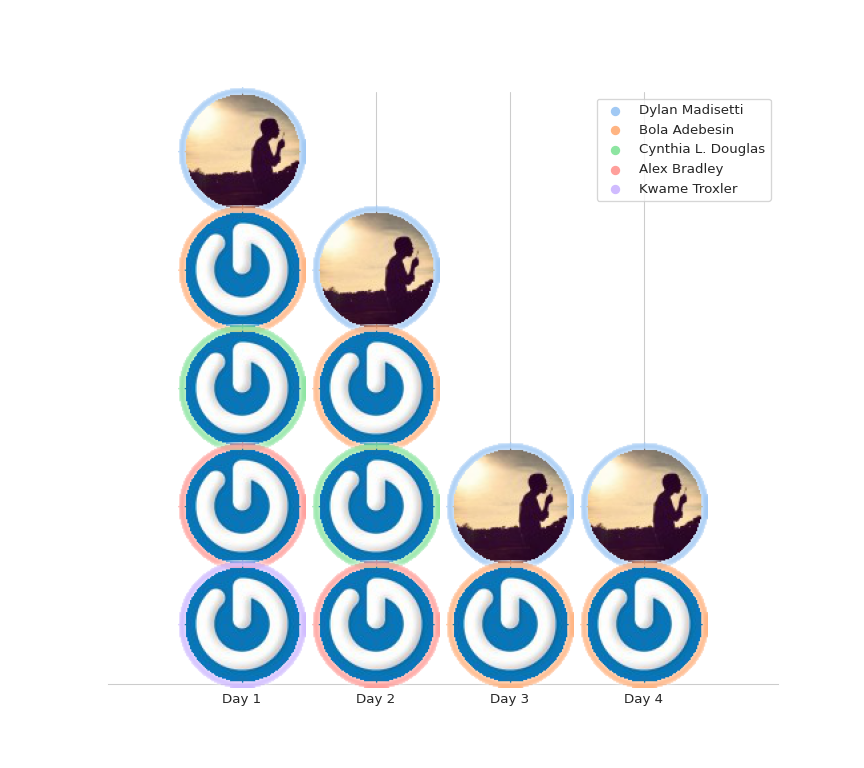
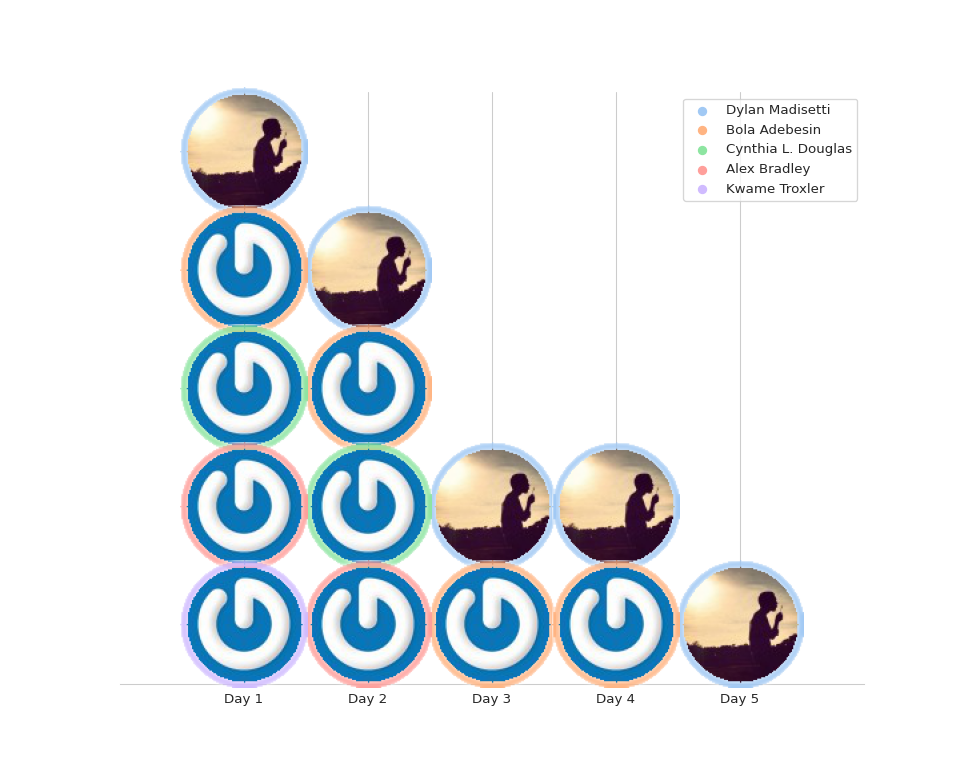
Deploying to gh-pages from @ baltimoreblacktechies/100daysOfCode-2021@21d05e3069e7b8589e155fcfd46b6b0e1cac92ac 🚀

Changed region(s): [[0.1875, 0.0938, 0.8438, 0.9375], [0.6875, 0.125, 0.875, 0.25]]

diff --git a/Bola/index.html b/Bola/index.html
@@ -65,11 +65,6 @@
     <label class="md-overlay" for="__drawer"></label>
     <div data-md-component="skip">
       
-        
-        <a href="#day-2-worked-on-developing-a-microservice-at-work-that-receieves-and-logs-client-errors-i-also-spent-some-time-reading-about-preventing-sql-injections-in-go-and-other-vulnerabilities" class="md-skip">
-          Skip to content
-        </a>
-      
     </div>
     <div data-md-component="announce">
       
@@ -140,7 +135,7 @@
 <a href="https://github.com/baltimoreblacktechies/100daysOfCode-2021/" title="Go to repository" class="md-source">
   <div class="md-source__icon md-icon">
     
-    <svg xmlns="http://www.w3.org/2000/svg" viewBox="0 0 448 512"><path d="M439.55 236.05L244 40.45a28.87 28.87 0 00-40.81 0l-40.66 40.63 51.52 51.52c27.06-9.14 52.68 16.77 43.39 43.68l49.66 49.66c34.23-11.8 61.18 31 35.47 56.69-26.49 26.49-70.21-2.87-56-37.34L240.22 199v121.85c25.3 12.54 22.26 41.85 9.08 55a34.34 34.34 0 01-48.55 0c-17.57-17.6-11.07-46.91 11.25-56v-123c-20.8-8.51-24.6-30.74-18.64-45L142.57 101 8.45 235.14a28.86 28.86 0 000 40.81l195.61 195.6a28.86 28.86 0 0040.8 0l194.69-194.69a28.86 28.86 0 000-40.81z"/></svg>
+    <svg xmlns="http://www.w3.org/2000/svg" viewBox="0 0 496 512"><path d="M165.9 397.4c0 2-2.3 3.6-5.2 3.6-3.3.3-5.6-1.3-5.6-3.6 0-2 2.3-3.6 5.2-3.6 3-.3 5.6 1.3 5.6 3.6zm-31.1-4.5c-.7 2 1.3 4.3 4.3 4.9 2.6 1 5.6 0 6.2-2s-1.3-4.3-4.3-5.2c-2.6-.7-5.5.3-6.2 2.3zm44.2-1.7c-2.9.7-4.9 2.6-4.6 4.9.3 2 2.9 3.3 5.9 2.6 2.9-.7 4.9-2.6 4.6-4.6-.3-1.9-3-3.2-5.9-2.9zM244.8 8C106.1 8 0 113.3 0 252c0 110.9 69.8 205.8 169.5 239.2 12.8 2.3 17.3-5.6 17.3-12.1 0-6.2-.3-40.4-.3-61.4 0 0-70 15-84.7-29.8 0 0-11.4-29.1-27.8-36.6 0 0-22.9-15.7 1.6-15.4 0 0 24.9 2 38.6 25.8 21.9 38.6 58.6 27.5 72.9 20.9 2.3-16 8.8-27.1 16-33.7-55.9-6.2-112.3-14.3-112.3-110.5 0-27.5 7.6-41.3 23.6-58.9-2.6-6.5-11.1-33.3 2.6-67.9 20.9-6.5 69 27 69 27 20-5.6 41.5-8.5 62.8-8.5s42.8 2.9 62.8 8.5c0 0 48.1-33.6 69-27 13.7 34.7 5.2 61.4 2.6 67.9 16 17.7 25.8 31.5 25.8 58.9 0 96.5-58.9 104.2-114.8 110.5 9.2 7.9 17 22.9 17 46.4 0 33.7-.3 75.4-.3 83.6 0 6.5 4.6 14.4 17.3 12.1C428.2 457.8 496 362.9 496 252 496 113.3 383.5 8 244.8 8zM97.2 352.9c-1.3 1-1 3.3.7 5.2 1.6 1.6 3.9 2.3 5.2 1 1.3-1 1-3.3-.7-5.2-1.6-1.6-3.9-2.3-5.2-1zm-10.8-8.1c-.7 1.3.3 2.9 2.3 3.9 1.6 1 3.6.7 4.3-.7.7-1.3-.3-2.9-2.3-3.9-2-.6-3.6-.3-4.3.7zm32.4 35.6c-1.6 1.3-1 4.3 1.3 6.2 2.3 2.3 5.2 2.6 6.5 1 1.3-1.3.7-4.3-1.3-6.2-2.2-2.3-5.2-2.6-6.5-1zm-11.4-14.7c-1.6 1-1.6 3.6 0 5.9 1.6 2.3 4.3 3.3 5.6 2.3 1.6-1.3 1.6-3.9 0-6.2-1.4-2.3-4-3.3-5.6-2z"/></svg>
   </div>
   <div class="md-source__repository">
     GitHub
@@ -184,7 +179,7 @@
 <a href="https://github.com/baltimoreblacktechies/100daysOfCode-2021/" title="Go to repository" class="md-source">
   <div class="md-source__icon md-icon">
     
-    <svg xmlns="http://www.w3.org/2000/svg" viewBox="0 0 448 512"><path d="M439.55 236.05L244 40.45a28.87 28.87 0 00-40.81 0l-40.66 40.63 51.52 51.52c27.06-9.14 52.68 16.77 43.39 43.68l49.66 49.66c34.23-11.8 61.18 31 35.47 56.69-26.49 26.49-70.21-2.87-56-37.34L240.22 199v121.85c25.3 12.54 22.26 41.85 9.08 55a34.34 34.34 0 01-48.55 0c-17.57-17.6-11.07-46.91 11.25-56v-123c-20.8-8.51-24.6-30.74-18.64-45L142.57 101 8.45 235.14a28.86 28.86 0 000 40.81l195.61 195.6a28.86 28.86 0 0040.8 0l194.69-194.69a28.86 28.86 0 000-40.81z"/></svg>
+    <svg xmlns="http://www.w3.org/2000/svg" viewBox="0 0 496 512"><path d="M165.9 397.4c0 2-2.3 3.6-5.2 3.6-3.3.3-5.6-1.3-5.6-3.6 0-2 2.3-3.6 5.2-3.6 3-.3 5.6 1.3 5.6 3.6zm-31.1-4.5c-.7 2 1.3 4.3 4.3 4.9 2.6 1 5.6 0 6.2-2s-1.3-4.3-4.3-5.2c-2.6-.7-5.5.3-6.2 2.3zm44.2-1.7c-2.9.7-4.9 2.6-4.6 4.9.3 2 2.9 3.3 5.9 2.6 2.9-.7 4.9-2.6 4.6-4.6-.3-1.9-3-3.2-5.9-2.9zM244.8 8C106.1 8 0 113.3 0 252c0 110.9 69.8 205.8 169.5 239.2 12.8 2.3 17.3-5.6 17.3-12.1 0-6.2-.3-40.4-.3-61.4 0 0-70 15-84.7-29.8 0 0-11.4-29.1-27.8-36.6 0 0-22.9-15.7 1.6-15.4 0 0 24.9 2 38.6 25.8 21.9 38.6 58.6 27.5 72.9 20.9 2.3-16 8.8-27.1 16-33.7-55.9-6.2-112.3-14.3-112.3-110.5 0-27.5 7.6-41.3 23.6-58.9-2.6-6.5-11.1-33.3 2.6-67.9 20.9-6.5 69 27 69 27 20-5.6 41.5-8.5 62.8-8.5s42.8 2.9 62.8 8.5c0 0 48.1-33.6 69-27 13.7 34.7 5.2 61.4 2.6 67.9 16 17.7 25.8 31.5 25.8 58.9 0 96.5-58.9 104.2-114.8 110.5 9.2 7.9 17 22.9 17 46.4 0 33.7-.3 75.4-.3 83.6 0 6.5 4.6 14.4 17.3 12.1C428.2 457.8 496 362.9 496 252 496 113.3 383.5 8 244.8 8zM97.2 352.9c-1.3 1-1 3.3.7 5.2 1.6 1.6 3.9 2.3 5.2 1 1.3-1 1-3.3-.7-5.2-1.6-1.6-3.9-2.3-5.2-1zm-10.8-8.1c-.7 1.3.3 2.9 2.3 3.9 1.6 1 3.6.7 4.3-.7.7-1.3-.3-2.9-2.3-3.9-2-.6-3.6-.3-4.3.7zm32.4 35.6c-1.6 1.3-1 4.3 1.3 6.2 2.3 2.3 5.2 2.6 6.5 1 1.3-1.3.7-4.3-1.3-6.2-2.2-2.3-5.2-2.6-6.5-1zm-11.4-14.7c-1.6 1-1.6 3.6 0 5.9 1.6 2.3 4.3 3.3 5.6 2.3 1.6-1.3 1.6-3.9 0-6.2-1.4-2.3-4-3.3-5.6-2z"/></svg>
   </div>
   <div class="md-source__repository">
     GitHub
@@ -287,36 +282,9 @@
       <input class="md-nav__toggle md-toggle" data-md-toggle="toc" type="checkbox" id="__toc">
       
       
-        <label class="md-nav__link md-nav__link--active" for="__toc">
-          docs/Bola.md
-          <span class="md-nav__icon md-icon"></span>
-        </label>
-      
       <a href="./" class="md-nav__link md-nav__link--active">
         docs/Bola.md
       </a>
-      
-        
-<nav class="md-nav md-nav--secondary" aria-label="Table of contents">
-  
-  
-  
-    <label class="md-nav__title" for="__toc">
-      <span class="md-nav__icon md-icon"></span>
-      Table of contents
-    </label>
-    <ul class="md-nav__list" data-md-scrollfix>
-      
-        <li class="md-nav__item">
-  <a href="#day-2-worked-on-developing-a-microservice-at-work-that-receieves-and-logs-client-errors-i-also-spent-some-time-reading-about-preventing-sql-injections-in-go-and-other-vulnerabilities" class="md-nav__link">
-    Day 2: Worked on developing a microservice at work that receieves and logs client errors. I also spent some time reading about preventing SQL injections in Go and other vulnerabilities.
-  </a>
-  
-</li>
-      
-    </ul>
-  
-</nav>
       
     </li>
   
@@ -371,35 +339,6 @@
               </div>
             
             
-              
-              <div class="md-sidebar md-sidebar--secondary" data-md-component="toc" >
-                <div class="md-sidebar__scrollwrap">
-                  <div class="md-sidebar__inner">
-                    
-<nav class="md-nav md-nav--secondary" aria-label="Table of contents">
-  
-  
-  
-    <label class="md-nav__title" for="__toc">
-      <span class="md-nav__icon md-icon"></span>
-      Table of contents
-    </label>
-    <ul class="md-nav__list" data-md-scrollfix>
-      
-        <li class="md-nav__item">
-  <a href="#day-2-worked-on-developing-a-microservice-at-work-that-receieves-and-logs-client-errors-i-also-spent-some-time-reading-about-preventing-sql-injections-in-go-and-other-vulnerabilities" class="md-nav__link">
-    Day 2: Worked on developing a microservice at work that receieves and logs client errors. I also spent some time reading about preventing SQL injections in Go and other vulnerabilities.
-  </a>
-  
-</li>
-      
-    </ul>
-  
-</nav>
-                  </div>
-                </div>
-              </div>
-            
           
           <div class="md-content">
             <article class="md-content__inner md-typeset">
@@ -415,7 +354,8 @@
                 <p>Day 1: Recently, I've been making an effort to improve my knowledge of data structures and algorithms. I'm working through a course 
 I purchased on Udemy. Today, I focused on solving problems using the "sliding window" technique. </p>
 <hr />
-<h2 id="day-2-worked-on-developing-a-microservice-at-work-that-receieves-and-logs-client-errors-i-also-spent-some-time-reading-about-preventing-sql-injections-in-go-and-other-vulnerabilities">Day 2: Worked on developing a microservice at work that receieves and logs client errors. I also spent some time reading about preventing SQL injections in Go and other vulnerabilities.</h2>
+<p>Day 2: Worked on developing a microservice at work that receieves and logs client errors. I also spent some time reading about preventing SQL injections in Go and other vulnerabilities. </p>
+<hr />
 <p>Day 3: Spent today learning and practicing recursion. One problem led me down an interesting rabbit hole about the different ways to remove the 
 last element of an array in javascript. There are three different ways to do it, and each method returns something different. Definitely a good 
 review of some of javascript's built in methods.</p>

diff --git a/Alex/index.html b/Alex/index.html
@@ -65,11 +65,6 @@
     <label class="md-overlay" for="__drawer"></label>
     <div data-md-component="skip">
       
-        
-        <a href="#today-i-read-a-chapter-of-phoenix-in-action" class="md-skip">
-          Skip to content
-        </a>
-      
     </div>
     <div data-md-component="announce">
       
@@ -140,7 +135,7 @@
 <a href="https://github.com/baltimoreblacktechies/100daysOfCode-2021/" title="Go to repository" class="md-source">
   <div class="md-source__icon md-icon">
     
-    <svg xmlns="http://www.w3.org/2000/svg" viewBox="0 0 448 512"><path d="M439.55 236.05L244 40.45a28.87 28.87 0 00-40.81 0l-40.66 40.63 51.52 51.52c27.06-9.14 52.68 16.77 43.39 43.68l49.66 49.66c34.23-11.8 61.18 31 35.47 56.69-26.49 26.49-70.21-2.87-56-37.34L240.22 199v121.85c25.3 12.54 22.26 41.85 9.08 55a34.34 34.34 0 01-48.55 0c-17.57-17.6-11.07-46.91 11.25-56v-123c-20.8-8.51-24.6-30.74-18.64-45L142.57 101 8.45 235.14a28.86 28.86 0 000 40.81l195.61 195.6a28.86 28.86 0 0040.8 0l194.69-194.69a28.86 28.86 0 000-40.81z"/></svg>
+    <svg xmlns="http://www.w3.org/2000/svg" viewBox="0 0 496 512"><path d="M165.9 397.4c0 2-2.3 3.6-5.2 3.6-3.3.3-5.6-1.3-5.6-3.6 0-2 2.3-3.6 5.2-3.6 3-.3 5.6 1.3 5.6 3.6zm-31.1-4.5c-.7 2 1.3 4.3 4.3 4.9 2.6 1 5.6 0 6.2-2s-1.3-4.3-4.3-5.2c-2.6-.7-5.5.3-6.2 2.3zm44.2-1.7c-2.9.7-4.9 2.6-4.6 4.9.3 2 2.9 3.3 5.9 2.6 2.9-.7 4.9-2.6 4.6-4.6-.3-1.9-3-3.2-5.9-2.9zM244.8 8C106.1 8 0 113.3 0 252c0 110.9 69.8 205.8 169.5 239.2 12.8 2.3 17.3-5.6 17.3-12.1 0-6.2-.3-40.4-.3-61.4 0 0-70 15-84.7-29.8 0 0-11.4-29.1-27.8-36.6 0 0-22.9-15.7 1.6-15.4 0 0 24.9 2 38.6 25.8 21.9 38.6 58.6 27.5 72.9 20.9 2.3-16 8.8-27.1 16-33.7-55.9-6.2-112.3-14.3-112.3-110.5 0-27.5 7.6-41.3 23.6-58.9-2.6-6.5-11.1-33.3 2.6-67.9 20.9-6.5 69 27 69 27 20-5.6 41.5-8.5 62.8-8.5s42.8 2.9 62.8 8.5c0 0 48.1-33.6 69-27 13.7 34.7 5.2 61.4 2.6 67.9 16 17.7 25.8 31.5 25.8 58.9 0 96.5-58.9 104.2-114.8 110.5 9.2 7.9 17 22.9 17 46.4 0 33.7-.3 75.4-.3 83.6 0 6.5 4.6 14.4 17.3 12.1C428.2 457.8 496 362.9 496 252 496 113.3 383.5 8 244.8 8zM97.2 352.9c-1.3 1-1 3.3.7 5.2 1.6 1.6 3.9 2.3 5.2 1 1.3-1 1-3.3-.7-5.2-1.6-1.6-3.9-2.3-5.2-1zm-10.8-8.1c-.7 1.3.3 2.9 2.3 3.9 1.6 1 3.6.7 4.3-.7.7-1.3-.3-2.9-2.3-3.9-2-.6-3.6-.3-4.3.7zm32.4 35.6c-1.6 1.3-1 4.3 1.3 6.2 2.3 2.3 5.2 2.6 6.5 1 1.3-1.3.7-4.3-1.3-6.2-2.2-2.3-5.2-2.6-6.5-1zm-11.4-14.7c-1.6 1-1.6 3.6 0 5.9 1.6 2.3 4.3 3.3 5.6 2.3 1.6-1.3 1.6-3.9 0-6.2-1.4-2.3-4-3.3-5.6-2z"/></svg>
   </div>
   <div class="md-source__repository">
     GitHub
@@ -184,7 +179,7 @@
 <a href="https://github.com/baltimoreblacktechies/100daysOfCode-2021/" title="Go to repository" class="md-source">
   <div class="md-source__icon md-icon">
     
-    <svg xmlns="http://www.w3.org/2000/svg" viewBox="0 0 448 512"><path d="M439.55 236.05L244 40.45a28.87 28.87 0 00-40.81 0l-40.66 40.63 51.52 51.52c27.06-9.14 52.68 16.77 43.39 43.68l49.66 49.66c34.23-11.8 61.18 31 35.47 56.69-26.49 26.49-70.21-2.87-56-37.34L240.22 199v121.85c25.3 12.54 22.26 41.85 9.08 55a34.34 34.34 0 01-48.55 0c-17.57-17.6-11.07-46.91 11.25-56v-123c-20.8-8.51-24.6-30.74-18.64-45L142.57 101 8.45 235.14a28.86 28.86 0 000 40.81l195.61 195.6a28.86 28.86 0 0040.8 0l194.69-194.69a28.86 28.86 0 000-40.81z"/></svg>
+    <svg xmlns="http://www.w3.org/2000/svg" viewBox="0 0 496 512"><path d="M165.9 397.4c0 2-2.3 3.6-5.2 3.6-3.3.3-5.6-1.3-5.6-3.6 0-2 2.3-3.6 5.2-3.6 3-.3 5.6 1.3 5.6 3.6zm-31.1-4.5c-.7 2 1.3 4.3 4.3 4.9 2.6 1 5.6 0 6.2-2s-1.3-4.3-4.3-5.2c-2.6-.7-5.5.3-6.2 2.3zm44.2-1.7c-2.9.7-4.9 2.6-4.6 4.9.3 2 2.9 3.3 5.9 2.6 2.9-.7 4.9-2.6 4.6-4.6-.3-1.9-3-3.2-5.9-2.9zM244.8 8C106.1 8 0 113.3 0 252c0 110.9 69.8 205.8 169.5 239.2 12.8 2.3 17.3-5.6 17.3-12.1 0-6.2-.3-40.4-.3-61.4 0 0-70 15-84.7-29.8 0 0-11.4-29.1-27.8-36.6 0 0-22.9-15.7 1.6-15.4 0 0 24.9 2 38.6 25.8 21.9 38.6 58.6 27.5 72.9 20.9 2.3-16 8.8-27.1 16-33.7-55.9-6.2-112.3-14.3-112.3-110.5 0-27.5 7.6-41.3 23.6-58.9-2.6-6.5-11.1-33.3 2.6-67.9 20.9-6.5 69 27 69 27 20-5.6 41.5-8.5 62.8-8.5s42.8 2.9 62.8 8.5c0 0 48.1-33.6 69-27 13.7 34.7 5.2 61.4 2.6 67.9 16 17.7 25.8 31.5 25.8 58.9 0 96.5-58.9 104.2-114.8 110.5 9.2 7.9 17 22.9 17 46.4 0 33.7-.3 75.4-.3 83.6 0 6.5 4.6 14.4 17.3 12.1C428.2 457.8 496 362.9 496 252 496 113.3 383.5 8 244.8 8zM97.2 352.9c-1.3 1-1 3.3.7 5.2 1.6 1.6 3.9 2.3 5.2 1 1.3-1 1-3.3-.7-5.2-1.6-1.6-3.9-2.3-5.2-1zm-10.8-8.1c-.7 1.3.3 2.9 2.3 3.9 1.6 1 3.6.7 4.3-.7.7-1.3-.3-2.9-2.3-3.9-2-.6-3.6-.3-4.3.7zm32.4 35.6c-1.6 1.3-1 4.3 1.3 6.2 2.3 2.3 5.2 2.6 6.5 1 1.3-1.3.7-4.3-1.3-6.2-2.2-2.3-5.2-2.6-6.5-1zm-11.4-14.7c-1.6 1-1.6 3.6 0 5.9 1.6 2.3 4.3 3.3 5.6 2.3 1.6-1.3 1.6-3.9 0-6.2-1.4-2.3-4-3.3-5.6-2z"/></svg>
   </div>
   <div class="md-source__repository">
     GitHub
@@ -275,36 +270,9 @@
       <input class="md-nav__toggle md-toggle" data-md-toggle="toc" type="checkbox" id="__toc">
       
       
-        <label class="md-nav__link md-nav__link--active" for="__toc">
-          docs/Alex.md
-          <span class="md-nav__icon md-icon"></span>
-        </label>
-      
       <a href="./" class="md-nav__link md-nav__link--active">
         docs/Alex.md
       </a>
-      
-        
-<nav class="md-nav md-nav--secondary" aria-label="Table of contents">
-  
-  
-  
-    <label class="md-nav__title" for="__toc">
-      <span class="md-nav__icon md-icon"></span>
-      Table of contents
-    </label>
-    <ul class="md-nav__list" data-md-scrollfix>
-      
-        <li class="md-nav__item">
-  <a href="#today-i-read-a-chapter-of-phoenix-in-action" class="md-nav__link">
-    Today I read a chapter of Phoenix in Action
-  </a>
-  
-</li>
-      
-    </ul>
-  
-</nav>
       
     </li>
   
@@ -371,35 +339,6 @@
               </div>
             
             
-              
-              <div class="md-sidebar md-sidebar--secondary" data-md-component="toc" >
-                <div class="md-sidebar__scrollwrap">
-                  <div class="md-sidebar__inner">
-                    
-<nav class="md-nav md-nav--secondary" aria-label="Table of contents">
-  
-  
-  
-    <label class="md-nav__title" for="__toc">
-      <span class="md-nav__icon md-icon"></span>
-      Table of contents
-    </label>
-    <ul class="md-nav__list" data-md-scrollfix>
-      
-        <li class="md-nav__item">
-  <a href="#today-i-read-a-chapter-of-phoenix-in-action" class="md-nav__link">
-    Today I read a chapter of Phoenix in Action
-  </a>
-  
-</li>
-      
-    </ul>
-  
-</nav>
-                  </div>
-                </div>
-              </div>
-            
           
           <div class="md-content">
             <article class="md-content__inner md-typeset">
@@ -412,7 +351,8 @@
                 
                   <h1>docs/Alex.md</h1>
                 
-                <h2 id="today-i-read-a-chapter-of-phoenix-in-action">Today I read a chapter of Phoenix in Action</h2>
+                <p>Today I read a chapter of Phoenix in Action</p>
+<hr />
 <p>Spent this day parsing csv files in go to output it into formatted JSON.</p>
                 
               

diff --git a/Dylan/index.html b/Dylan/index.html
@@ -140,7 +140,7 @@
 <a href="https://github.com/baltimoreblacktechies/100daysOfCode-2021/" title="Go to repository" class="md-source">
   <div class="md-source__icon md-icon">
     
-    <svg xmlns="http://www.w3.org/2000/svg" viewBox="0 0 448 512"><path d="M439.55 236.05L244 40.45a28.87 28.87 0 00-40.81 0l-40.66 40.63 51.52 51.52c27.06-9.14 52.68 16.77 43.39 43.68l49.66 49.66c34.23-11.8 61.18 31 35.47 56.69-26.49 26.49-70.21-2.87-56-37.34L240.22 199v121.85c25.3 12.54 22.26 41.85 9.08 55a34.34 34.34 0 01-48.55 0c-17.57-17.6-11.07-46.91 11.25-56v-123c-20.8-8.51-24.6-30.74-18.64-45L142.57 101 8.45 235.14a28.86 28.86 0 000 40.81l195.61 195.6a28.86 28.86 0 0040.8 0l194.69-194.69a28.86 28.86 0 000-40.81z"/></svg>
+    <svg xmlns="http://www.w3.org/2000/svg" viewBox="0 0 496 512"><path d="M165.9 397.4c0 2-2.3 3.6-5.2 3.6-3.3.3-5.6-1.3-5.6-3.6 0-2 2.3-3.6 5.2-3.6 3-.3 5.6 1.3 5.6 3.6zm-31.1-4.5c-.7 2 1.3 4.3 4.3 4.9 2.6 1 5.6 0 6.2-2s-1.3-4.3-4.3-5.2c-2.6-.7-5.5.3-6.2 2.3zm44.2-1.7c-2.9.7-4.9 2.6-4.6 4.9.3 2 2.9 3.3 5.9 2.6 2.9-.7 4.9-2.6 4.6-4.6-.3-1.9-3-3.2-5.9-2.9zM244.8 8C106.1 8 0 113.3 0 252c0 110.9 69.8 205.8 169.5 239.2 12.8 2.3 17.3-5.6 17.3-12.1 0-6.2-.3-40.4-.3-61.4 0 0-70 15-84.7-29.8 0 0-11.4-29.1-27.8-36.6 0 0-22.9-15.7 1.6-15.4 0 0 24.9 2 38.6 25.8 21.9 38.6 58.6 27.5 72.9 20.9 2.3-16 8.8-27.1 16-33.7-55.9-6.2-112.3-14.3-112.3-110.5 0-27.5 7.6-41.3 23.6-58.9-2.6-6.5-11.1-33.3 2.6-67.9 20.9-6.5 69 27 69 27 20-5.6 41.5-8.5 62.8-8.5s42.8 2.9 62.8 8.5c0 0 48.1-33.6 69-27 13.7 34.7 5.2 61.4 2.6 67.9 16 17.7 25.8 31.5 25.8 58.9 0 96.5-58.9 104.2-114.8 110.5 9.2 7.9 17 22.9 17 46.4 0 33.7-.3 75.4-.3 83.6 0 6.5 4.6 14.4 17.3 12.1C428.2 457.8 496 362.9 496 252 496 113.3 383.5 8 244.8 8zM97.2 352.9c-1.3 1-1 3.3.7 5.2 1.6 1.6 3.9 2.3 5.2 1 1.3-1 1-3.3-.7-5.2-1.6-1.6-3.9-2.3-5.2-1zm-10.8-8.1c-.7 1.3.3 2.9 2.3 3.9 1.6 1 3.6.7 4.3-.7.7-1.3-.3-2.9-2.3-3.9-2-.6-3.6-.3-4.3.7zm32.4 35.6c-1.6 1.3-1 4.3 1.3 6.2 2.3 2.3 5.2 2.6 6.5 1 1.3-1.3.7-4.3-1.3-6.2-2.2-2.3-5.2-2.6-6.5-1zm-11.4-14.7c-1.6 1-1.6 3.6 0 5.9 1.6 2.3 4.3 3.3 5.6 2.3 1.6-1.3 1.6-3.9 0-6.2-1.4-2.3-4-3.3-5.6-2z"/></svg>
   </div>
   <div class="md-source__repository">
     GitHub
@@ -184,7 +184,7 @@
 <a href="https://github.com/baltimoreblacktechies/100daysOfCode-2021/" title="Go to repository" class="md-source">
   <div class="md-source__icon md-icon">
     
-    <svg xmlns="http://www.w3.org/2000/svg" viewBox="0 0 448 512"><path d="M439.55 236.05L244 40.45a28.87 28.87 0 00-40.81 0l-40.66 40.63 51.52 51.52c27.06-9.14 52.68 16.77 43.39 43.68l49.66 49.66c34.23-11.8 61.18 31 35.47 56.69-26.49 26.49-70.21-2.87-56-37.34L240.22 199v121.85c25.3 12.54 22.26 41.85 9.08 55a34.34 34.34 0 01-48.55 0c-17.57-17.6-11.07-46.91 11.25-56v-123c-20.8-8.51-24.6-30.74-18.64-45L142.57 101 8.45 235.14a28.86 28.86 0 000 40.81l195.61 195.6a28.86 28.86 0 0040.8 0l194.69-194.69a28.86 28.86 0 000-40.81z"/></svg>
+    <svg xmlns="http://www.w3.org/2000/svg" viewBox="0 0 496 512"><path d="M165.9 397.4c0 2-2.3 3.6-5.2 3.6-3.3.3-5.6-1.3-5.6-3.6 0-2 2.3-3.6 5.2-3.6 3-.3 5.6 1.3 5.6 3.6zm-31.1-4.5c-.7 2 1.3 4.3 4.3 4.9 2.6 1 5.6 0 6.2-2s-1.3-4.3-4.3-5.2c-2.6-.7-5.5.3-6.2 2.3zm44.2-1.7c-2.9.7-4.9 2.6-4.6 4.9.3 2 2.9 3.3 5.9 2.6 2.9-.7 4.9-2.6 4.6-4.6-.3-1.9-3-3.2-5.9-2.9zM244.8 8C106.1 8 0 113.3 0 252c0 110.9 69.8 205.8 169.5 239.2 12.8 2.3 17.3-5.6 17.3-12.1 0-6.2-.3-40.4-.3-61.4 0 0-70 15-84.7-29.8 0 0-11.4-29.1-27.8-36.6 0 0-22.9-15.7 1.6-15.4 0 0 24.9 2 38.6 25.8 21.9 38.6 58.6 27.5 72.9 20.9 2.3-16 8.8-27.1 16-33.7-55.9-6.2-112.3-14.3-112.3-110.5 0-27.5 7.6-41.3 23.6-58.9-2.6-6.5-11.1-33.3 2.6-67.9 20.9-6.5 69 27 69 27 20-5.6 41.5-8.5 62.8-8.5s42.8 2.9 62.8 8.5c0 0 48.1-33.6 69-27 13.7 34.7 5.2 61.4 2.6 67.9 16 17.7 25.8 31.5 25.8 58.9 0 96.5-58.9 104.2-114.8 110.5 9.2 7.9 17 22.9 17 46.4 0 33.7-.3 75.4-.3 83.6 0 6.5 4.6 14.4 17.3 12.1C428.2 457.8 496 362.9 496 252 496 113.3 383.5 8 244.8 8zM97.2 352.9c-1.3 1-1 3.3.7 5.2 1.6 1.6 3.9 2.3 5.2 1 1.3-1 1-3.3-.7-5.2-1.6-1.6-3.9-2.3-5.2-1zm-10.8-8.1c-.7 1.3.3 2.9 2.3 3.9 1.6 1 3.6.7 4.3-.7.7-1.3-.3-2.9-2.3-3.9-2-.6-3.6-.3-4.3.7zm32.4 35.6c-1.6 1.3-1 4.3 1.3 6.2 2.3 2.3 5.2 2.6 6.5 1 1.3-1.3.7-4.3-1.3-6.2-2.2-2.3-5.2-2.6-6.5-1zm-11.4-14.7c-1.6 1-1.6 3.6 0 5.9 1.6 2.3 4.3 3.3 5.6 2.3 1.6-1.3 1.6-3.9 0-6.2-1.4-2.3-4-3.3-5.6-2z"/></svg>
   </div>
   <div class="md-source__repository">
     GitHub
@@ -370,6 +370,13 @@
   
 </li>
       
+        <li class="md-nav__item">
+  <a href="#day-5" class="md-nav__link">
+    Day 5
+  </a>
+  
+</li>
+      
     </ul>
   
 </nav>
@@ -455,6 +462,13 @@
   
 </li>
       
+        <li class="md-nav__item">
+  <a href="#day-5" class="md-nav__link">
+    Day 5
+  </a>
+  
+</li>
+      
     </ul>
   
 </nav>
@@ -487,6 +501,14 @@ are a little broken rn (can only download zips) so was disappointed.</p>
 <h2 id="day-4">Day 4</h2>
 <p>Lol, over did the readme page, made a github pages site and added badges for
 100 days of code. Also fixed some of the caching issues.</p>
+<h2 id="day-5">Day 5</h2>
+<p>Does work count? Worked on a visualization with
+<a href="https://github.com/ManimCommunity/manim/">Manim</a> for an upcoming presentation.
+I fixed a bug with my CI in my research code, and I read up on using CSE for
+FMM + means of numerically calculating Cauchy integrals incase I want to go
+down the numerical FMM route (with Laurent series) for the equations I've
+been wrestling with. Also fixed a bug or two with the BBT 100 Days of code
+CI.</p>
                 
               
               

diff --git a/404.html b/404.html
@@ -135,7 +135,7 @@
 <a href="https://github.com/baltimoreblacktechies/100daysOfCode-2021/" title="Go to repository" class="md-source">
   <div class="md-source__icon md-icon">
     
-    <svg xmlns="http://www.w3.org/2000/svg" viewBox="0 0 448 512"><path d="M439.55 236.05L244 40.45a28.87 28.87 0 00-40.81 0l-40.66 40.63 51.52 51.52c27.06-9.14 52.68 16.77 43.39 43.68l49.66 49.66c34.23-11.8 61.18 31 35.47 56.69-26.49 26.49-70.21-2.87-56-37.34L240.22 199v121.85c25.3 12.54 22.26 41.85 9.08 55a34.34 34.34 0 01-48.55 0c-17.57-17.6-11.07-46.91 11.25-56v-123c-20.8-8.51-24.6-30.74-18.64-45L142.57 101 8.45 235.14a28.86 28.86 0 000 40.81l195.61 195.6a28.86 28.86 0 0040.8 0l194.69-194.69a28.86 28.86 0 000-40.81z"/></svg>
+    <svg xmlns="http://www.w3.org/2000/svg" viewBox="0 0 496 512"><path d="M165.9 397.4c0 2-2.3 3.6-5.2 3.6-3.3.3-5.6-1.3-5.6-3.6 0-2 2.3-3.6 5.2-3.6 3-.3 5.6 1.3 5.6 3.6zm-31.1-4.5c-.7 2 1.3 4.3 4.3 4.9 2.6 1 5.6 0 6.2-2s-1.3-4.3-4.3-5.2c-2.6-.7-5.5.3-6.2 2.3zm44.2-1.7c-2.9.7-4.9 2.6-4.6 4.9.3 2 2.9 3.3 5.9 2.6 2.9-.7 4.9-2.6 4.6-4.6-.3-1.9-3-3.2-5.9-2.9zM244.8 8C106.1 8 0 113.3 0 252c0 110.9 69.8 205.8 169.5 239.2 12.8 2.3 17.3-5.6 17.3-12.1 0-6.2-.3-40.4-.3-61.4 0 0-70 15-84.7-29.8 0 0-11.4-29.1-27.8-36.6 0 0-22.9-15.7 1.6-15.4 0 0 24.9 2 38.6 25.8 21.9 38.6 58.6 27.5 72.9 20.9 2.3-16 8.8-27.1 16-33.7-55.9-6.2-112.3-14.3-112.3-110.5 0-27.5 7.6-41.3 23.6-58.9-2.6-6.5-11.1-33.3 2.6-67.9 20.9-6.5 69 27 69 27 20-5.6 41.5-8.5 62.8-8.5s42.8 2.9 62.8 8.5c0 0 48.1-33.6 69-27 13.7 34.7 5.2 61.4 2.6 67.9 16 17.7 25.8 31.5 25.8 58.9 0 96.5-58.9 104.2-114.8 110.5 9.2 7.9 17 22.9 17 46.4 0 33.7-.3 75.4-.3 83.6 0 6.5 4.6 14.4 17.3 12.1C428.2 457.8 496 362.9 496 252 496 113.3 383.5 8 244.8 8zM97.2 352.9c-1.3 1-1 3.3.7 5.2 1.6 1.6 3.9 2.3 5.2 1 1.3-1 1-3.3-.7-5.2-1.6-1.6-3.9-2.3-5.2-1zm-10.8-8.1c-.7 1.3.3 2.9 2.3 3.9 1.6 1 3.6.7 4.3-.7.7-1.3-.3-2.9-2.3-3.9-2-.6-3.6-.3-4.3.7zm32.4 35.6c-1.6 1.3-1 4.3 1.3 6.2 2.3 2.3 5.2 2.6 6.5 1 1.3-1.3.7-4.3-1.3-6.2-2.2-2.3-5.2-2.6-6.5-1zm-11.4-14.7c-1.6 1-1.6 3.6 0 5.9 1.6 2.3 4.3 3.3 5.6 2.3 1.6-1.3 1.6-3.9 0-6.2-1.4-2.3-4-3.3-5.6-2z"/></svg>
   </div>
   <div class="md-source__repository">
     GitHub
@@ -179,7 +179,7 @@
 <a href="https://github.com/baltimoreblacktechies/100daysOfCode-2021/" title="Go to repository" class="md-source">
   <div class="md-source__icon md-icon">
     
-    <svg xmlns="http://www.w3.org/2000/svg" viewBox="0 0 448 512"><path d="M439.55 236.05L244 40.45a28.87 28.87 0 00-40.81 0l-40.66 40.63 51.52 51.52c27.06-9.14 52.68 16.77 43.39 43.68l49.66 49.66c34.23-11.8 61.18 31 35.47 56.69-26.49 26.49-70.21-2.87-56-37.34L240.22 199v121.85c25.3 12.54 22.26 41.85 9.08 55a34.34 34.34 0 01-48.55 0c-17.57-17.6-11.07-46.91 11.25-56v-123c-20.8-8.51-24.6-30.74-18.64-45L142.57 101 8.45 235.14a28.86 28.86 0 000 40.81l195.61 195.6a28.86 28.86 0 0040.8 0l194.69-194.69a28.86 28.86 0 000-40.81z"/></svg>
+    <svg xmlns="http://www.w3.org/2000/svg" viewBox="0 0 496 512"><path d="M165.9 397.4c0 2-2.3 3.6-5.2 3.6-3.3.3-5.6-1.3-5.6-3.6 0-2 2.3-3.6 5.2-3.6 3-.3 5.6 1.3 5.6 3.6zm-31.1-4.5c-.7 2 1.3 4.3 4.3 4.9 2.6 1 5.6 0 6.2-2s-1.3-4.3-4.3-5.2c-2.6-.7-5.5.3-6.2 2.3zm44.2-1.7c-2.9.7-4.9 2.6-4.6 4.9.3 2 2.9 3.3 5.9 2.6 2.9-.7 4.9-2.6 4.6-4.6-.3-1.9-3-3.2-5.9-2.9zM244.8 8C106.1 8 0 113.3 0 252c0 110.9 69.8 205.8 169.5 239.2 12.8 2.3 17.3-5.6 17.3-12.1 0-6.2-.3-40.4-.3-61.4 0 0-70 15-84.7-29.8 0 0-11.4-29.1-27.8-36.6 0 0-22.9-15.7 1.6-15.4 0 0 24.9 2 38.6 25.8 21.9 38.6 58.6 27.5 72.9 20.9 2.3-16 8.8-27.1 16-33.7-55.9-6.2-112.3-14.3-112.3-110.5 0-27.5 7.6-41.3 23.6-58.9-2.6-6.5-11.1-33.3 2.6-67.9 20.9-6.5 69 27 69 27 20-5.6 41.5-8.5 62.8-8.5s42.8 2.9 62.8 8.5c0 0 48.1-33.6 69-27 13.7 34.7 5.2 61.4 2.6 67.9 16 17.7 25.8 31.5 25.8 58.9 0 96.5-58.9 104.2-114.8 110.5 9.2 7.9 17 22.9 17 46.4 0 33.7-.3 75.4-.3 83.6 0 6.5 4.6 14.4 17.3 12.1C428.2 457.8 496 362.9 496 252 496 113.3 383.5 8 244.8 8zM97.2 352.9c-1.3 1-1 3.3.7 5.2 1.6 1.6 3.9 2.3 5.2 1 1.3-1 1-3.3-.7-5.2-1.6-1.6-3.9-2.3-5.2-1zm-10.8-8.1c-.7 1.3.3 2.9 2.3 3.9 1.6 1 3.6.7 4.3-.7.7-1.3-.3-2.9-2.3-3.9-2-.6-3.6-.3-4.3.7zm32.4 35.6c-1.6 1.3-1 4.3 1.3 6.2 2.3 2.3 5.2 2.6 6.5 1 1.3-1.3.7-4.3-1.3-6.2-2.2-2.3-5.2-2.6-6.5-1zm-11.4-14.7c-1.6 1-1.6 3.6 0 5.9 1.6 2.3 4.3 3.3 5.6 2.3 1.6-1.3 1.6-3.9 0-6.2-1.4-2.3-4-3.3-5.6-2z"/></svg>
   </div>
   <div class="md-source__repository">
     GitHub

diff --git a/Cynthia/index.html b/Cynthia/index.html
@@ -135,7 +135,7 @@
 <a href="https://github.com/baltimoreblacktechies/100daysOfCode-2021/" title="Go to repository" class="md-source">
   <div class="md-source__icon md-icon">
     
-    <svg xmlns="http://www.w3.org/2000/svg" viewBox="0 0 448 512"><path d="M439.55 236.05L244 40.45a28.87 28.87 0 00-40.81 0l-40.66 40.63 51.52 51.52c27.06-9.14 52.68 16.77 43.39 43.68l49.66 49.66c34.23-11.8 61.18 31 35.47 56.69-26.49 26.49-70.21-2.87-56-37.34L240.22 199v121.85c25.3 12.54 22.26 41.85 9.08 55a34.34 34.34 0 01-48.55 0c-17.57-17.6-11.07-46.91 11.25-56v-123c-20.8-8.51-24.6-30.74-18.64-45L142.57 101 8.45 235.14a28.86 28.86 0 000 40.81l195.61 195.6a28.86 28.86 0 0040.8 0l194.69-194.69a28.86 28.86 0 000-40.81z"/></svg>
+    <svg xmlns="http://www.w3.org/2000/svg" viewBox="0 0 496 512"><path d="M165.9 397.4c0 2-2.3 3.6-5.2 3.6-3.3.3-5.6-1.3-5.6-3.6 0-2 2.3-3.6 5.2-3.6 3-.3 5.6 1.3 5.6 3.6zm-31.1-4.5c-.7 2 1.3 4.3 4.3 4.9 2.6 1 5.6 0 6.2-2s-1.3-4.3-4.3-5.2c-2.6-.7-5.5.3-6.2 2.3zm44.2-1.7c-2.9.7-4.9 2.6-4.6 4.9.3 2 2.9 3.3 5.9 2.6 2.9-.7 4.9-2.6 4.6-4.6-.3-1.9-3-3.2-5.9-2.9zM244.8 8C106.1 8 0 113.3 0 252c0 110.9 69.8 205.8 169.5 239.2 12.8 2.3 17.3-5.6 17.3-12.1 0-6.2-.3-40.4-.3-61.4 0 0-70 15-84.7-29.8 0 0-11.4-29.1-27.8-36.6 0 0-22.9-15.7 1.6-15.4 0 0 24.9 2 38.6 25.8 21.9 38.6 58.6 27.5 72.9 20.9 2.3-16 8.8-27.1 16-33.7-55.9-6.2-112.3-14.3-112.3-110.5 0-27.5 7.6-41.3 23.6-58.9-2.6-6.5-11.1-33.3 2.6-67.9 20.9-6.5 69 27 69 27 20-5.6 41.5-8.5 62.8-8.5s42.8 2.9 62.8 8.5c0 0 48.1-33.6 69-27 13.7 34.7 5.2 61.4 2.6 67.9 16 17.7 25.8 31.5 25.8 58.9 0 96.5-58.9 104.2-114.8 110.5 9.2 7.9 17 22.9 17 46.4 0 33.7-.3 75.4-.3 83.6 0 6.5 4.6 14.4 17.3 12.1C428.2 457.8 496 362.9 496 252 496 113.3 383.5 8 244.8 8zM97.2 352.9c-1.3 1-1 3.3.7 5.2 1.6 1.6 3.9 2.3 5.2 1 1.3-1 1-3.3-.7-5.2-1.6-1.6-3.9-2.3-5.2-1zm-10.8-8.1c-.7 1.3.3 2.9 2.3 3.9 1.6 1 3.6.7 4.3-.7.7-1.3-.3-2.9-2.3-3.9-2-.6-3.6-.3-4.3.7zm32.4 35.6c-1.6 1.3-1 4.3 1.3 6.2 2.3 2.3 5.2 2.6 6.5 1 1.3-1.3.7-4.3-1.3-6.2-2.2-2.3-5.2-2.6-6.5-1zm-11.4-14.7c-1.6 1-1.6 3.6 0 5.9 1.6 2.3 4.3 3.3 5.6 2.3 1.6-1.3 1.6-3.9 0-6.2-1.4-2.3-4-3.3-5.6-2z"/></svg>
   </div>
   <div class="md-source__repository">
     GitHub
@@ -179,7 +179,7 @@
 <a href="https://github.com/baltimoreblacktechies/100daysOfCode-2021/" title="Go to repository" class="md-source">
   <div class="md-source__icon md-icon">
     
-    <svg xmlns="http://www.w3.org/2000/svg" viewBox="0 0 448 512"><path d="M439.55 236.05L244 40.45a28.87 28.87 0 00-40.81 0l-40.66 40.63 51.52 51.52c27.06-9.14 52.68 16.77 43.39 43.68l49.66 49.66c34.23-11.8 61.18 31 35.47 56.69-26.49 26.49-70.21-2.87-56-37.34L240.22 199v121.85c25.3 12.54 22.26 41.85 9.08 55a34.34 34.34 0 01-48.55 0c-17.57-17.6-11.07-46.91 11.25-56v-123c-20.8-8.51-24.6-30.74-18.64-45L142.57 101 8.45 235.14a28.86 28.86 0 000 40.81l195.61 195.6a28.86 28.86 0 0040.8 0l194.69-194.69a28.86 28.86 0 000-40.81z"/></svg>
+    <svg xmlns="http://www.w3.org/2000/svg" viewBox="0 0 496 512"><path d="M165.9 397.4c0 2-2.3 3.6-5.2 3.6-3.3.3-5.6-1.3-5.6-3.6 0-2 2.3-3.6 5.2-3.6 3-.3 5.6 1.3 5.6 3.6zm-31.1-4.5c-.7 2 1.3 4.3 4.3 4.9 2.6 1 5.6 0 6.2-2s-1.3-4.3-4.3-5.2c-2.6-.7-5.5.3-6.2 2.3zm44.2-1.7c-2.9.7-4.9 2.6-4.6 4.9.3 2 2.9 3.3 5.9 2.6 2.9-.7 4.9-2.6 4.6-4.6-.3-1.9-3-3.2-5.9-2.9zM244.8 8C106.1 8 0 113.3 0 252c0 110.9 69.8 205.8 169.5 239.2 12.8 2.3 17.3-5.6 17.3-12.1 0-6.2-.3-40.4-.3-61.4 0 0-70 15-84.7-29.8 0 0-11.4-29.1-27.8-36.6 0 0-22.9-15.7 1.6-15.4 0 0 24.9 2 38.6 25.8 21.9 38.6 58.6 27.5 72.9 20.9 2.3-16 8.8-27.1 16-33.7-55.9-6.2-112.3-14.3-112.3-110.5 0-27.5 7.6-41.3 23.6-58.9-2.6-6.5-11.1-33.3 2.6-67.9 20.9-6.5 69 27 69 27 20-5.6 41.5-8.5 62.8-8.5s42.8 2.9 62.8 8.5c0 0 48.1-33.6 69-27 13.7 34.7 5.2 61.4 2.6 67.9 16 17.7 25.8 31.5 25.8 58.9 0 96.5-58.9 104.2-114.8 110.5 9.2 7.9 17 22.9 17 46.4 0 33.7-.3 75.4-.3 83.6 0 6.5 4.6 14.4 17.3 12.1C428.2 457.8 496 362.9 496 252 496 113.3 383.5 8 244.8 8zM97.2 352.9c-1.3 1-1 3.3.7 5.2 1.6 1.6 3.9 2.3 5.2 1 1.3-1 1-3.3-.7-5.2-1.6-1.6-3.9-2.3-5.2-1zm-10.8-8.1c-.7 1.3.3 2.9 2.3 3.9 1.6 1 3.6.7 4.3-.7.7-1.3-.3-2.9-2.3-3.9-2-.6-3.6-.3-4.3.7zm32.4 35.6c-1.6 1.3-1 4.3 1.3 6.2 2.3 2.3 5.2 2.6 6.5 1 1.3-1.3.7-4.3-1.3-6.2-2.2-2.3-5.2-2.6-6.5-1zm-11.4-14.7c-1.6 1-1.6 3.6 0 5.9 1.6 2.3 4.3 3.3 5.6 2.3 1.6-1.3 1.6-3.9 0-6.2-1.4-2.3-4-3.3-5.6-2z"/></svg>
   </div>
   <div class="md-source__repository">
     GitHub

diff --git a/Kwame/index.html b/Kwame/index.html
@@ -135,7 +135,7 @@
 <a href="https://github.com/baltimoreblacktechies/100daysOfCode-2021/" title="Go to repository" class="md-source">
   <div class="md-source__icon md-icon">
     
-    <svg xmlns="http://www.w3.org/2000/svg" viewBox="0 0 448 512"><path d="M439.55 236.05L244 40.45a28.87 28.87 0 00-40.81 0l-40.66 40.63 51.52 51.52c27.06-9.14 52.68 16.77 43.39 43.68l49.66 49.66c34.23-11.8 61.18 31 35.47 56.69-26.49 26.49-70.21-2.87-56-37.34L240.22 199v121.85c25.3 12.54 22.26 41.85 9.08 55a34.34 34.34 0 01-48.55 0c-17.57-17.6-11.07-46.91 11.25-56v-123c-20.8-8.51-24.6-30.74-18.64-45L142.57 101 8.45 235.14a28.86 28.86 0 000 40.81l195.61 195.6a28.86 28.86 0 0040.8 0l194.69-194.69a28.86 28.86 0 000-40.81z"/></svg>
+    <svg xmlns="http://www.w3.org/2000/svg" viewBox="0 0 496 512"><path d="M165.9 397.4c0 2-2.3 3.6-5.2 3.6-3.3.3-5.6-1.3-5.6-3.6 0-2 2.3-3.6 5.2-3.6 3-.3 5.6 1.3 5.6 3.6zm-31.1-4.5c-.7 2 1.3 4.3 4.3 4.9 2.6 1 5.6 0 6.2-2s-1.3-4.3-4.3-5.2c-2.6-.7-5.5.3-6.2 2.3zm44.2-1.7c-2.9.7-4.9 2.6-4.6 4.9.3 2 2.9 3.3 5.9 2.6 2.9-.7 4.9-2.6 4.6-4.6-.3-1.9-3-3.2-5.9-2.9zM244.8 8C106.1 8 0 113.3 0 252c0 110.9 69.8 205.8 169.5 239.2 12.8 2.3 17.3-5.6 17.3-12.1 0-6.2-.3-40.4-.3-61.4 0 0-70 15-84.7-29.8 0 0-11.4-29.1-27.8-36.6 0 0-22.9-15.7 1.6-15.4 0 0 24.9 2 38.6 25.8 21.9 38.6 58.6 27.5 72.9 20.9 2.3-16 8.8-27.1 16-33.7-55.9-6.2-112.3-14.3-112.3-110.5 0-27.5 7.6-41.3 23.6-58.9-2.6-6.5-11.1-33.3 2.6-67.9 20.9-6.5 69 27 69 27 20-5.6 41.5-8.5 62.8-8.5s42.8 2.9 62.8 8.5c0 0 48.1-33.6 69-27 13.7 34.7 5.2 61.4 2.6 67.9 16 17.7 25.8 31.5 25.8 58.9 0 96.5-58.9 104.2-114.8 110.5 9.2 7.9 17 22.9 17 46.4 0 33.7-.3 75.4-.3 83.6 0 6.5 4.6 14.4 17.3 12.1C428.2 457.8 496 362.9 496 252 496 113.3 383.5 8 244.8 8zM97.2 352.9c-1.3 1-1 3.3.7 5.2 1.6 1.6 3.9 2.3 5.2 1 1.3-1 1-3.3-.7-5.2-1.6-1.6-3.9-2.3-5.2-1zm-10.8-8.1c-.7 1.3.3 2.9 2.3 3.9 1.6 1 3.6.7 4.3-.7.7-1.3-.3-2.9-2.3-3.9-2-.6-3.6-.3-4.3.7zm32.4 35.6c-1.6 1.3-1 4.3 1.3 6.2 2.3 2.3 5.2 2.6 6.5 1 1.3-1.3.7-4.3-1.3-6.2-2.2-2.3-5.2-2.6-6.5-1zm-11.4-14.7c-1.6 1-1.6 3.6 0 5.9 1.6 2.3 4.3 3.3 5.6 2.3 1.6-1.3 1.6-3.9 0-6.2-1.4-2.3-4-3.3-5.6-2z"/></svg>
   </div>
   <div class="md-source__repository">
     GitHub
@@ -179,7 +179,7 @@
 <a href="https://github.com/baltimoreblacktechies/100daysOfCode-2021/" title="Go to repository" class="md-source">
   <div class="md-source__icon md-icon">
     
-    <svg xmlns="http://www.w3.org/2000/svg" viewBox="0 0 448 512"><path d="M439.55 236.05L244 40.45a28.87 28.87 0 00-40.81 0l-40.66 40.63 51.52 51.52c27.06-9.14 52.68 16.77 43.39 43.68l49.66 49.66c34.23-11.8 61.18 31 35.47 56.69-26.49 26.49-70.21-2.87-56-37.34L240.22 199v121.85c25.3 12.54 22.26 41.85 9.08 55a34.34 34.34 0 01-48.55 0c-17.57-17.6-11.07-46.91 11.25-56v-123c-20.8-8.51-24.6-30.74-18.64-45L142.57 101 8.45 235.14a28.86 28.86 0 000 40.81l195.61 195.6a28.86 28.86 0 0040.8 0l194.69-194.69a28.86 28.86 0 000-40.81z"/></svg>
+    <svg xmlns="http://www.w3.org/2000/svg" viewBox="0 0 496 512"><path d="M165.9 397.4c0 2-2.3 3.6-5.2 3.6-3.3.3-5.6-1.3-5.6-3.6 0-2 2.3-3.6 5.2-3.6 3-.3 5.6 1.3 5.6 3.6zm-31.1-4.5c-.7 2 1.3 4.3 4.3 4.9 2.6 1 5.6 0 6.2-2s-1.3-4.3-4.3-5.2c-2.6-.7-5.5.3-6.2 2.3zm44.2-1.7c-2.9.7-4.9 2.6-4.6 4.9.3 2 2.9 3.3 5.9 2.6 2.9-.7 4.9-2.6 4.6-4.6-.3-1.9-3-3.2-5.9-2.9zM244.8 8C106.1 8 0 113.3 0 252c0 110.9 69.8 205.8 169.5 239.2 12.8 2.3 17.3-5.6 17.3-12.1 0-6.2-.3-40.4-.3-61.4 0 0-70 15-84.7-29.8 0 0-11.4-29.1-27.8-36.6 0 0-22.9-15.7 1.6-15.4 0 0 24.9 2 38.6 25.8 21.9 38.6 58.6 27.5 72.9 20.9 2.3-16 8.8-27.1 16-33.7-55.9-6.2-112.3-14.3-112.3-110.5 0-27.5 7.6-41.3 23.6-58.9-2.6-6.5-11.1-33.3 2.6-67.9 20.9-6.5 69 27 69 27 20-5.6 41.5-8.5 62.8-8.5s42.8 2.9 62.8 8.5c0 0 48.1-33.6 69-27 13.7 34.7 5.2 61.4 2.6 67.9 16 17.7 25.8 31.5 25.8 58.9 0 96.5-58.9 104.2-114.8 110.5 9.2 7.9 17 22.9 17 46.4 0 33.7-.3 75.4-.3 83.6 0 6.5 4.6 14.4 17.3 12.1C428.2 457.8 496 362.9 496 252 496 113.3 383.5 8 244.8 8zM97.2 352.9c-1.3 1-1 3.3.7 5.2 1.6 1.6 3.9 2.3 5.2 1 1.3-1 1-3.3-.7-5.2-1.6-1.6-3.9-2.3-5.2-1zm-10.8-8.1c-.7 1.3.3 2.9 2.3 3.9 1.6 1 3.6.7 4.3-.7.7-1.3-.3-2.9-2.3-3.9-2-.6-3.6-.3-4.3.7zm32.4 35.6c-1.6 1.3-1 4.3 1.3 6.2 2.3 2.3 5.2 2.6 6.5 1 1.3-1.3.7-4.3-1.3-6.2-2.2-2.3-5.2-2.6-6.5-1zm-11.4-14.7c-1.6 1-1.6 3.6 0 5.9 1.6 2.3 4.3 3.3 5.6 2.3 1.6-1.3 1.6-3.9 0-6.2-1.4-2.3-4-3.3-5.6-2z"/></svg>
   </div>
   <div class="md-source__repository">
     GitHub

diff --git a/index.html b/index.html
@@ -140,7 +140,7 @@
 <a href="https://github.com/baltimoreblacktechies/100daysOfCode-2021/" title="Go to repository" class="md-source">
   <div class="md-source__icon md-icon">
     
-    <svg xmlns="http://www.w3.org/2000/svg" viewBox="0 0 448 512"><path d="M439.55 236.05L244 40.45a28.87 28.87 0 00-40.81 0l-40.66 40.63 51.52 51.52c27.06-9.14 52.68 16.77 43.39 43.68l49.66 49.66c34.23-11.8 61.18 31 35.47 56.69-26.49 26.49-70.21-2.87-56-37.34L240.22 199v121.85c25.3 12.54 22.26 41.85 9.08 55a34.34 34.34 0 01-48.55 0c-17.57-17.6-11.07-46.91 11.25-56v-123c-20.8-8.51-24.6-30.74-18.64-45L142.57 101 8.45 235.14a28.86 28.86 0 000 40.81l195.61 195.6a28.86 28.86 0 0040.8 0l194.69-194.69a28.86 28.86 0 000-40.81z"/></svg>
+    <svg xmlns="http://www.w3.org/2000/svg" viewBox="0 0 496 512"><path d="M165.9 397.4c0 2-2.3 3.6-5.2 3.6-3.3.3-5.6-1.3-5.6-3.6 0-2 2.3-3.6 5.2-3.6 3-.3 5.6 1.3 5.6 3.6zm-31.1-4.5c-.7 2 1.3 4.3 4.3 4.9 2.6 1 5.6 0 6.2-2s-1.3-4.3-4.3-5.2c-2.6-.7-5.5.3-6.2 2.3zm44.2-1.7c-2.9.7-4.9 2.6-4.6 4.9.3 2 2.9 3.3 5.9 2.6 2.9-.7 4.9-2.6 4.6-4.6-.3-1.9-3-3.2-5.9-2.9zM244.8 8C106.1 8 0 113.3 0 252c0 110.9 69.8 205.8 169.5 239.2 12.8 2.3 17.3-5.6 17.3-12.1 0-6.2-.3-40.4-.3-61.4 0 0-70 15-84.7-29.8 0 0-11.4-29.1-27.8-36.6 0 0-22.9-15.7 1.6-15.4 0 0 24.9 2 38.6 25.8 21.9 38.6 58.6 27.5 72.9 20.9 2.3-16 8.8-27.1 16-33.7-55.9-6.2-112.3-14.3-112.3-110.5 0-27.5 7.6-41.3 23.6-58.9-2.6-6.5-11.1-33.3 2.6-67.9 20.9-6.5 69 27 69 27 20-5.6 41.5-8.5 62.8-8.5s42.8 2.9 62.8 8.5c0 0 48.1-33.6 69-27 13.7 34.7 5.2 61.4 2.6 67.9 16 17.7 25.8 31.5 25.8 58.9 0 96.5-58.9 104.2-114.8 110.5 9.2 7.9 17 22.9 17 46.4 0 33.7-.3 75.4-.3 83.6 0 6.5 4.6 14.4 17.3 12.1C428.2 457.8 496 362.9 496 252 496 113.3 383.5 8 244.8 8zM97.2 352.9c-1.3 1-1 3.3.7 5.2 1.6 1.6 3.9 2.3 5.2 1 1.3-1 1-3.3-.7-5.2-1.6-1.6-3.9-2.3-5.2-1zm-10.8-8.1c-.7 1.3.3 2.9 2.3 3.9 1.6 1 3.6.7 4.3-.7.7-1.3-.3-2.9-2.3-3.9-2-.6-3.6-.3-4.3.7zm32.4 35.6c-1.6 1.3-1 4.3 1.3 6.2 2.3 2.3 5.2 2.6 6.5 1 1.3-1.3.7-4.3-1.3-6.2-2.2-2.3-5.2-2.6-6.5-1zm-11.4-14.7c-1.6 1-1.6 3.6 0 5.9 1.6 2.3 4.3 3.3 5.6 2.3 1.6-1.3 1.6-3.9 0-6.2-1.4-2.3-4-3.3-5.6-2z"/></svg>
   </div>
   <div class="md-source__repository">
     GitHub
@@ -184,7 +184,7 @@
 <a href="https://github.com/baltimoreblacktechies/100daysOfCode-2021/" title="Go to repository" class="md-source">
   <div class="md-source__icon md-icon">
     
-    <svg xmlns="http://www.w3.org/2000/svg" viewBox="0 0 448 512"><path d="M439.55 236.05L244 40.45a28.87 28.87 0 00-40.81 0l-40.66 40.63 51.52 51.52c27.06-9.14 52.68 16.77 43.39 43.68l49.66 49.66c34.23-11.8 61.18 31 35.47 56.69-26.49 26.49-70.21-2.87-56-37.34L240.22 199v121.85c25.3 12.54 22.26 41.85 9.08 55a34.34 34.34 0 01-48.55 0c-17.57-17.6-11.07-46.91 11.25-56v-123c-20.8-8.51-24.6-30.74-18.64-45L142.57 101 8.45 235.14a28.86 28.86 0 000 40.81l195.61 195.6a28.86 28.86 0 0040.8 0l194.69-194.69a28.86 28.86 0 000-40.81z"/></svg>
+    <svg xmlns="http://www.w3.org/2000/svg" viewBox="0 0 496 512"><path d="M165.9 397.4c0 2-2.3 3.6-5.2 3.6-3.3.3-5.6-1.3-5.6-3.6 0-2 2.3-3.6 5.2-3.6 3-.3 5.6 1.3 5.6 3.6zm-31.1-4.5c-.7 2 1.3 4.3 4.3 4.9 2.6 1 5.6 0 6.2-2s-1.3-4.3-4.3-5.2c-2.6-.7-5.5.3-6.2 2.3zm44.2-1.7c-2.9.7-4.9 2.6-4.6 4.9.3 2 2.9 3.3 5.9 2.6 2.9-.7 4.9-2.6 4.6-4.6-.3-1.9-3-3.2-5.9-2.9zM244.8 8C106.1 8 0 113.3 0 252c0 110.9 69.8 205.8 169.5 239.2 12.8 2.3 17.3-5.6 17.3-12.1 0-6.2-.3-40.4-.3-61.4 0 0-70 15-84.7-29.8 0 0-11.4-29.1-27.8-36.6 0 0-22.9-15.7 1.6-15.4 0 0 24.9 2 38.6 25.8 21.9 38.6 58.6 27.5 72.9 20.9 2.3-16 8.8-27.1 16-33.7-55.9-6.2-112.3-14.3-112.3-110.5 0-27.5 7.6-41.3 23.6-58.9-2.6-6.5-11.1-33.3 2.6-67.9 20.9-6.5 69 27 69 27 20-5.6 41.5-8.5 62.8-8.5s42.8 2.9 62.8 8.5c0 0 48.1-33.6 69-27 13.7 34.7 5.2 61.4 2.6 67.9 16 17.7 25.8 31.5 25.8 58.9 0 96.5-58.9 104.2-114.8 110.5 9.2 7.9 17 22.9 17 46.4 0 33.7-.3 75.4-.3 83.6 0 6.5 4.6 14.4 17.3 12.1C428.2 457.8 496 362.9 496 252 496 113.3 383.5 8 244.8 8zM97.2 352.9c-1.3 1-1 3.3.7 5.2 1.6 1.6 3.9 2.3 5.2 1 1.3-1 1-3.3-.7-5.2-1.6-1.6-3.9-2.3-5.2-1zm-10.8-8.1c-.7 1.3.3 2.9 2.3 3.9 1.6 1 3.6.7 4.3-.7.7-1.3-.3-2.9-2.3-3.9-2-.6-3.6-.3-4.3.7zm32.4 35.6c-1.6 1.3-1 4.3 1.3 6.2 2.3 2.3 5.2 2.6 6.5 1 1.3-1.3.7-4.3-1.3-6.2-2.2-2.3-5.2-2.6-6.5-1zm-11.4-14.7c-1.6 1-1.6 3.6 0 5.9 1.6 2.3 4.3 3.3 5.6 2.3 1.6-1.3 1.6-3.9 0-6.2-1.4-2.3-4-3.3-5.6-2z"/></svg>
   </div>
   <div class="md-source__repository">
     GitHub
